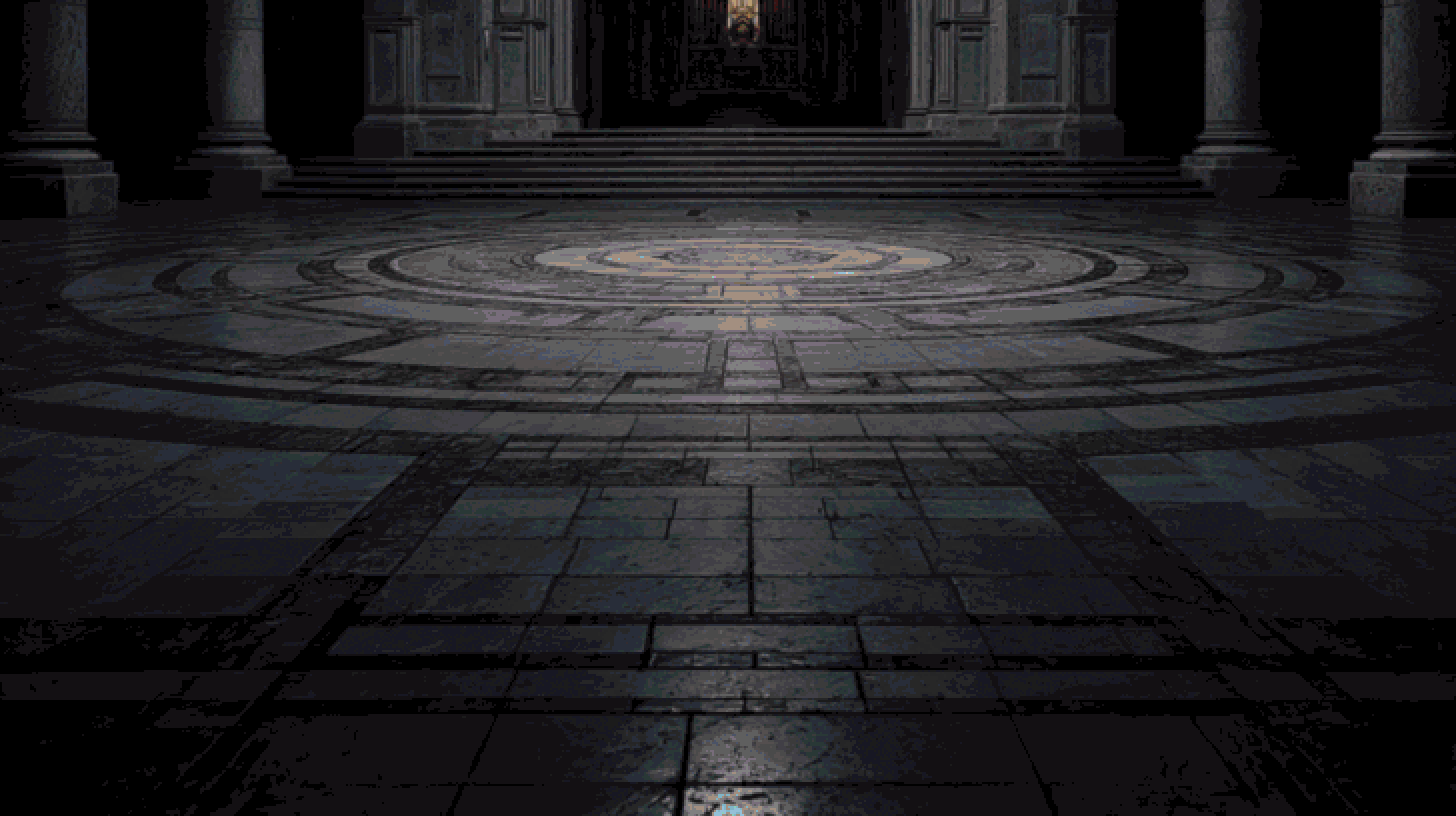
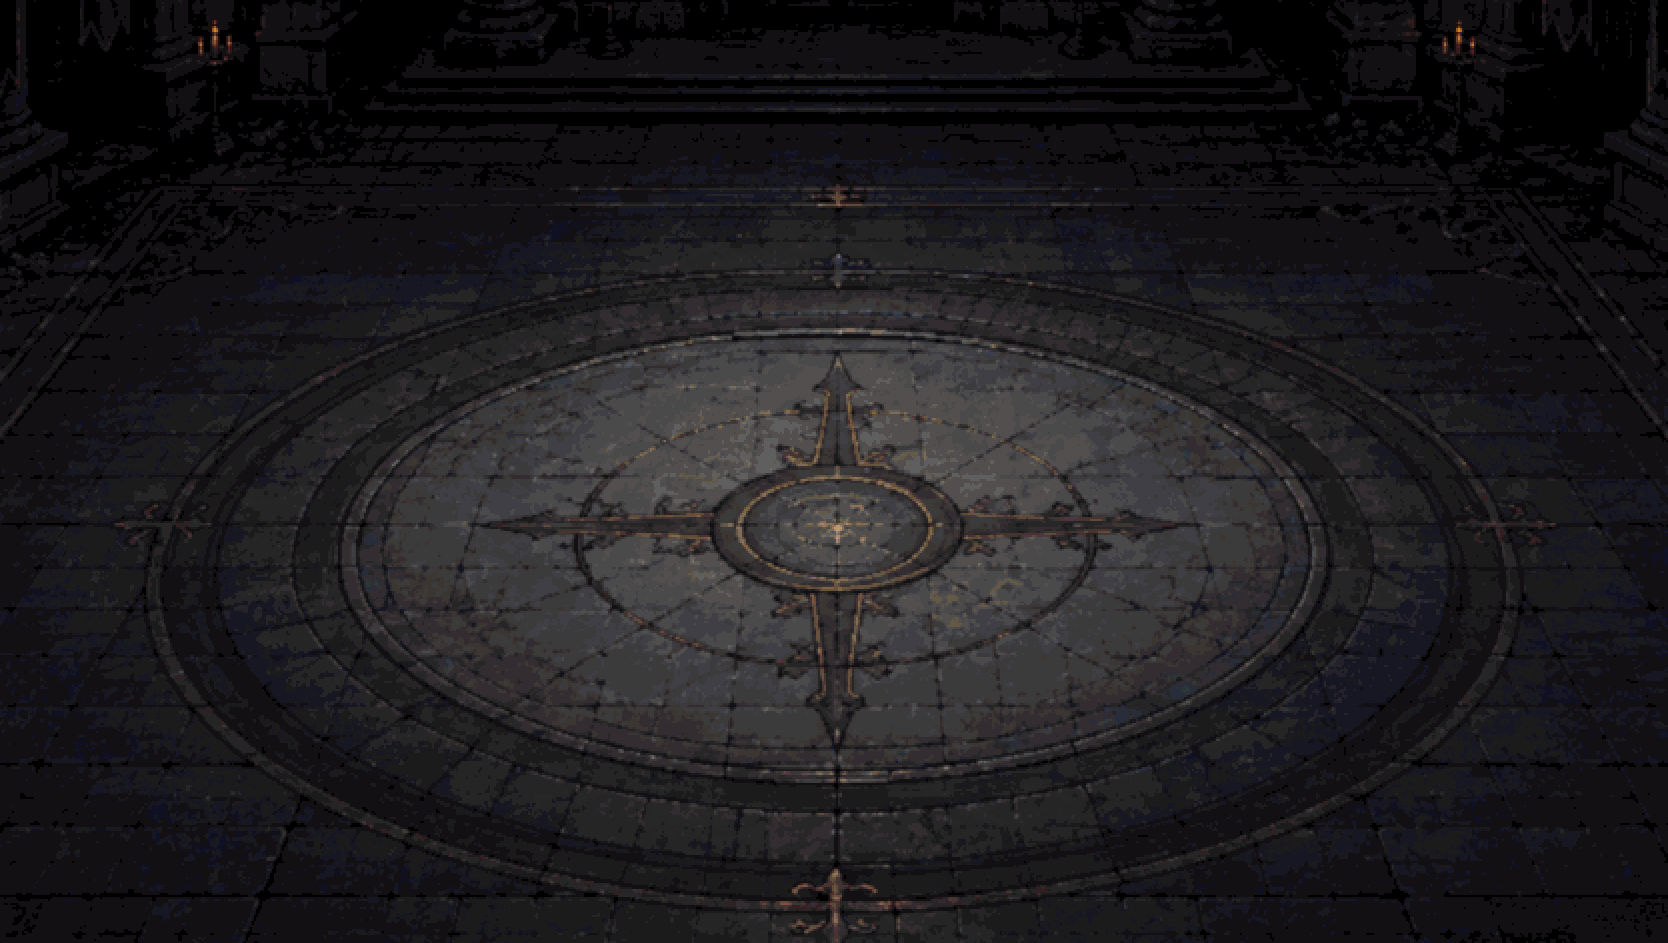
New Floor, New Colors

diff --git a/renderer.js b/renderer.js
@@ -10061,10 +10061,14 @@ function drawChurchUpgradeScreen(ctx, canvas, options = {}) {
       ctx.save();
       const imgW = bandImg.width || 1;
       const imgH = bandImg.height || 1;
-      // Center horizontally, align to bottom
-      const drawX = Math.round((canvas.width - imgW) / 2);
-      const drawY = canvas.height - imgH;
-      ctx.drawImage(bandImg, 0, 0, imgW, imgH, drawX, drawY, imgW, imgH);
+      // Scale to canvas width so converted floor images don't appear zoomed/clipped.
+      const scale = canvas.width / Math.max(1, imgW);
+      const drawW = Math.round(imgW * scale);
+      const drawH = Math.round(imgH * scale);
+      // Center horizontally, align to bottom.
+      const drawX = Math.round((canvas.width - drawW) / 2);
+      const drawY = canvas.height - drawH;
+      ctx.drawImage(bandImg, 0, 0, imgW, imgH, drawX, drawY, drawW, drawH);
       ctx.restore();
     } else {
       console.debug && console.debug("drawGame: band image missing", { layer: assets?.backgroundLayers?.floor });
